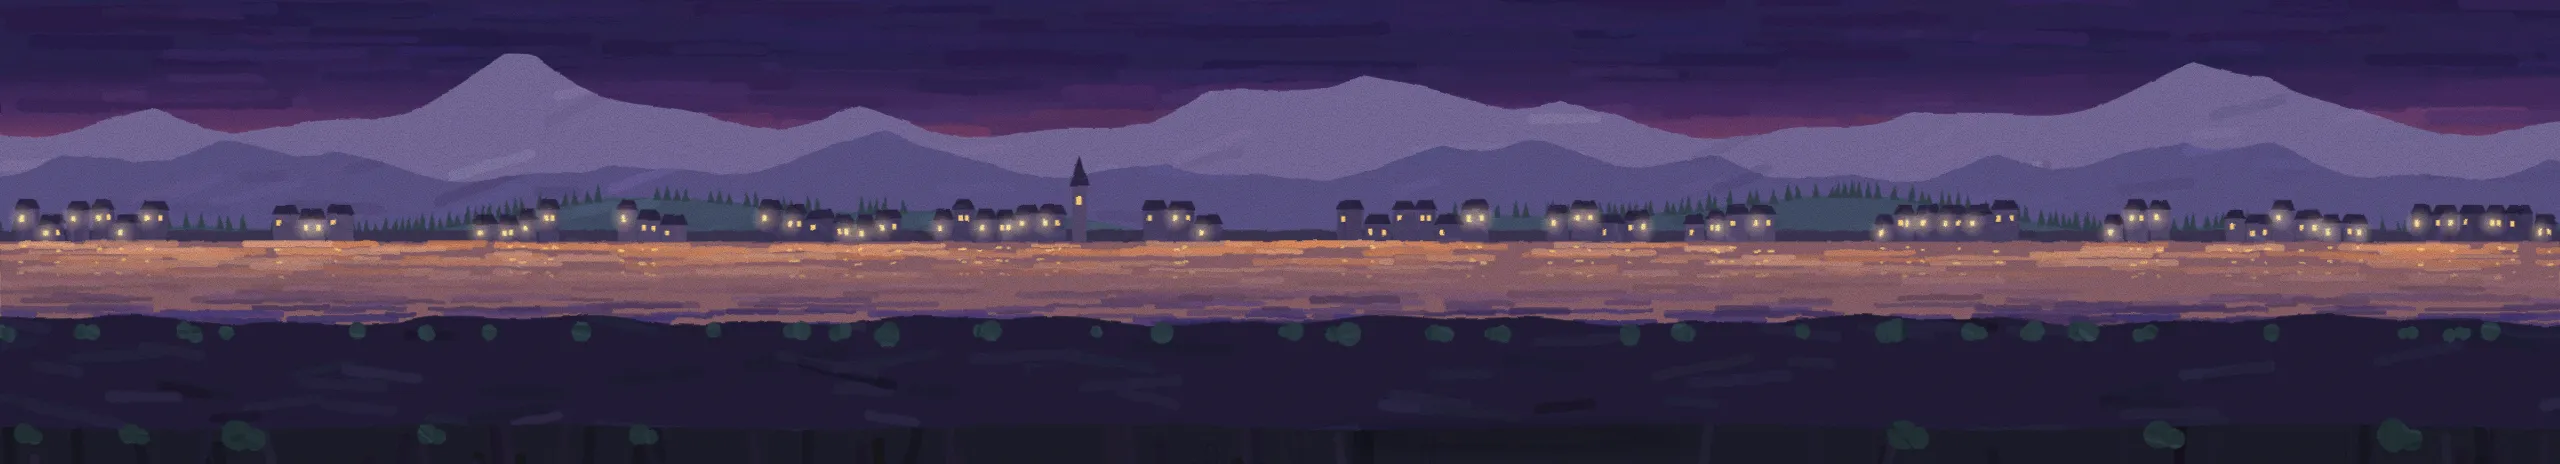
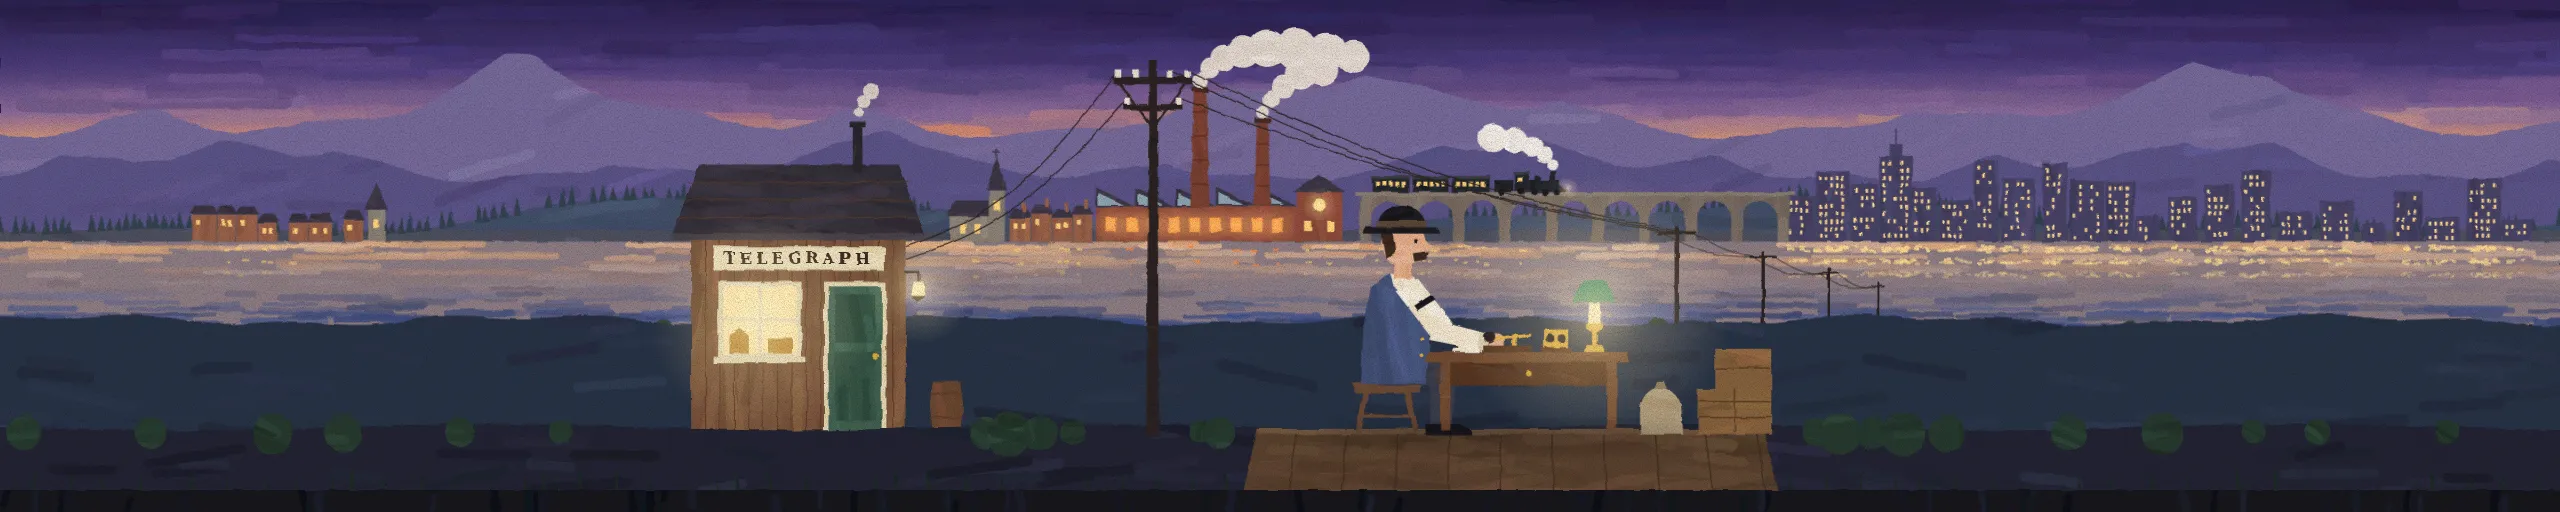
The website: the storyteller's arm off his face, and the telegraph office along the foot of the page (#20)
* The website: one question asked through eight painted ages, Ask it yourself, and Download, published on GitHub Pages

* The website: take out the strip of questions under the picture, and the stray line across the first hut

* The website: the gouache look carried into the sections below the picture

* Publish the website in two jobs, so the publish step no longer misses the packed files

* The website: the storyteller's arm no longer covers his face, and the telegraph office runs along the foot of the page

diff --git a/site/css/site.css b/site/css/site.css
@@ -1,5 +1,5 @@
 /* Civ Speak's website. Paintings in the hero, and the same gouache below: painted washes, ragged
-   brush edges between sections, small paintings in How it works, the valley at night in Download. */
+   brush edges between sections, small paintings in How it works, the telegraph office along the foot. */
 
 @font-face{font-family:"Cormorant Garamond";font-style:normal;font-weight:400 700;font-display:swap;src:url(../fonts/cormorant-garamond.woff2) format("woff2")}
 @font-face{font-family:"Cormorant Garamond";font-style:italic;font-weight:400 700;font-display:swap;src:url(../fonts/cormorant-garamond-italic.woff2) format("woff2")}
@@ -127,9 +127,9 @@ h2 em{font-style:italic}
 .facts b{display:block;color:var(--paper-ink);font-weight:600}
 
 /* download */
-.get{text-align:center;background-color:var(--night);padding-bottom:calc(clamp(170px,22vw,400px) + 20px)}
-.band{position:absolute;left:0;right:0;bottom:0;height:clamp(190px,26vw,464px);-webkit-mask-image:linear-gradient(transparent 0,#000 32%);mask-image:linear-gradient(transparent 0,#000 32%)}
-.band img{width:100%;height:100%;object-fit:cover;object-position:50% 100%}
+.get{text-align:center;background-color:var(--night);padding-bottom:calc(clamp(190px,27vw,470px) + 30px)}
+.band{position:absolute;left:0;right:0;bottom:0;height:clamp(210px,30vw,512px);-webkit-mask-image:linear-gradient(transparent 0,#000 22%);mask-image:linear-gradient(transparent 0,#000 22%)}
+.band img{width:100%;height:100%;object-fit:cover;object-position:57.5% 100%}
 .get .sub,.get .fine{margin-left:auto;margin-right:auto}
 .get .btn{margin-top:30px;height:56px;padding:0 34px;font-size:18px}
 .get .fine+.fine{margin-top:8px}
@@ -154,6 +154,7 @@ h2 em{font-style:italic}
   .bar .btn{display:none}
   .hero-copy{padding-top:84px}
   .hero-row .btn{width:min(460px,100%)}
+  .band img{object-position:54% 100%}
   .step{width:40px;height:40px;bottom:14px}
   .step.prev{left:12px}
   .step.next{right:12px}

diff --git a/site/index.html b/site/index.html
@@ -108,7 +108,7 @@
 </section>
 
 <section class="get" id="download">
-  <div class="band" aria-hidden="true"><img src="img/paint/band.webp" width="2560" height="464" alt="" loading="lazy"></div>
+  <div class="band" aria-hidden="true"><img src="img/paint/band.webp" width="2560" height="512" alt="" loading="lazy"></div>
   <div class="wrap">
     <p class="kick">Download</p>
     <h2>One more turn. <em>One more question.</em></h2>

diff --git a/docs/DEVELOPING.md b/docs/DEVELOPING.md
@@ -345,12 +345,13 @@ python3 -m http.server 5197 -d site      # then open http://localhost:5197
   for each age, shown one at a time; two arrows on the picture step through them. Each is 3200 by
   1000 (saved at 2560 by 800) with what matters in the middle and the top two fifths plain night
   sky, because the heading sits over it. To change the art, replace the files; their names and
-  descriptions are in the `AGES` list in `site/js/site.js`. `docs/site-art/previous/` keeps the
-  last version of any picture that was changed, to go back to.
+  descriptions are in the `AGES` list in `site/js/site.js`. `docs/site-art/previous/` keeps
+  the earlier versions of any picture that was changed (`-v1`, `-v2`, oldest first), to go back to.
 - **The painted look below the hero** is in `site/img/paint/`: `brush.webp` is a grey brush
   texture that tiles and is blended over each section's plain colour, `edge.svg` is the ragged
   edge where one section's paint is brushed over the one above, `key`, `ask` and `answer` are the
-  small paintings in How it works, and `band.webp` is the valley at night under Download. The
+  small paintings in How it works, and `band.webp` is the telegraph office painted as a strip
+  along the foot of the page, running into the footer. The
   section colours are the variables at the top of `site/css/site.css`.
 - **No sound files.** `tools/repo_guard.py` refuses recordings, so the answer in Ask it yourself
   is read by the browser's own speech. Nothing plays until Ask is pressed.
